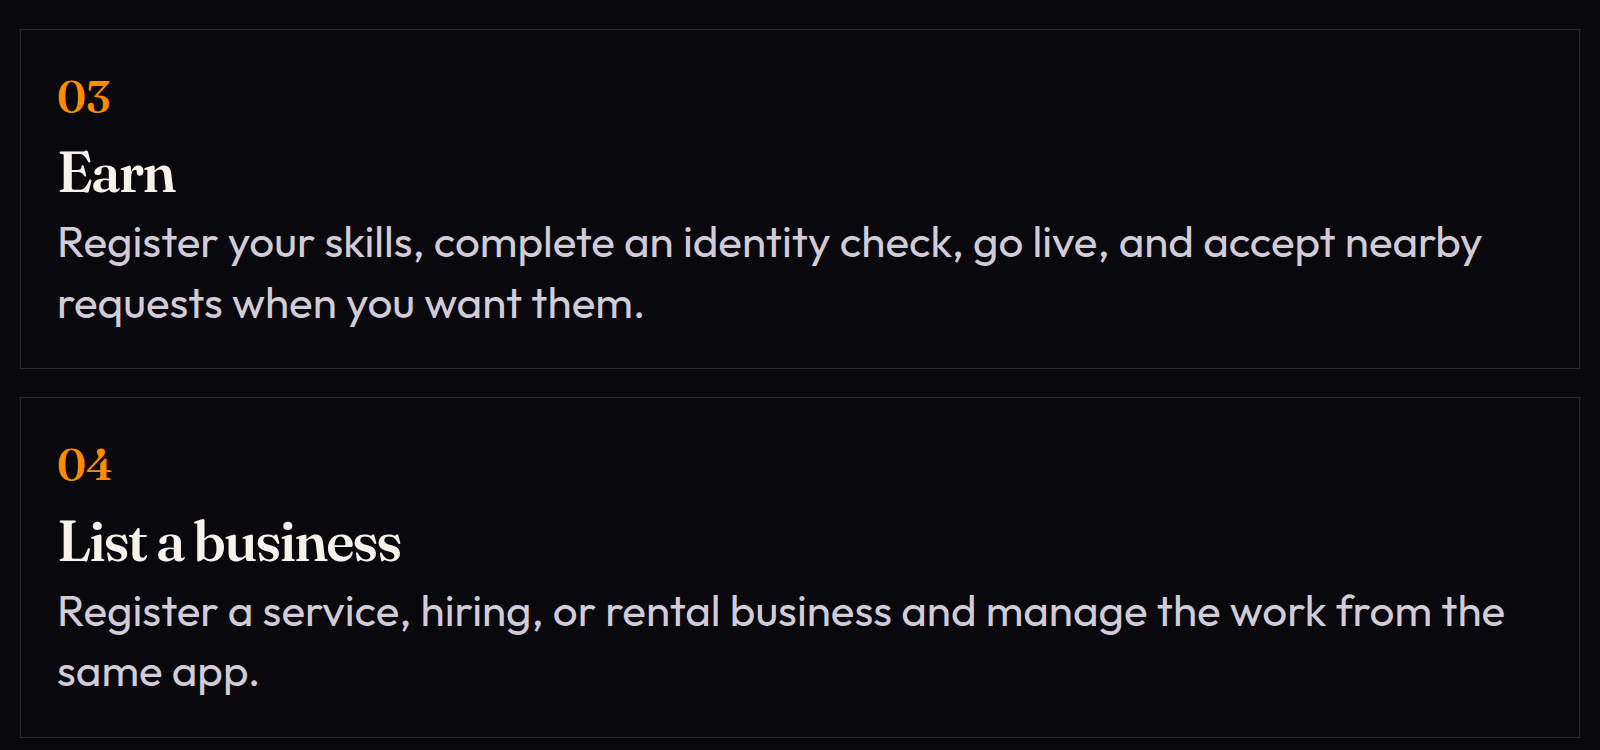
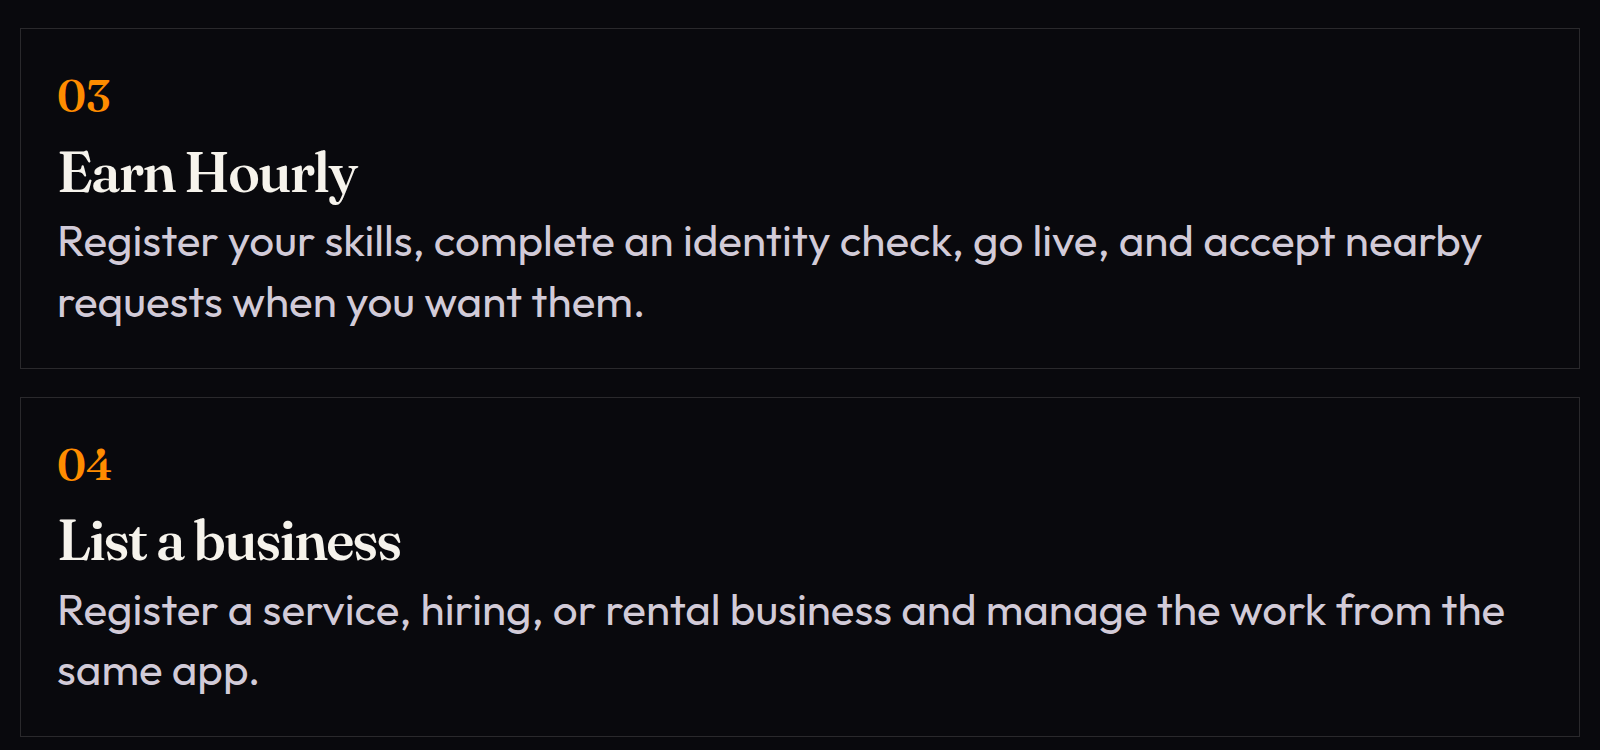
Rename the third path to Earn Hourly.

diff --git a/site/film/index.html b/site/film/index.html
@@ -105,7 +105,7 @@
       <p class="kicker child" id="pK">Four ways</p>
       <div class="path child" id="p1"><b>01</b><span>Book help</span></div>
       <div class="path child" id="p2"><b>02</b><span>Find a job</span></div>
-      <div class="path child" id="p3"><b>03</b><span>Earn</span></div>
+      <div class="path child" id="p3"><b>03</b><span>Earn Hourly</span></div>
       <div class="path child" id="p4"><b>04</b><span>List a business</span></div>
     </section>
 

diff --git a/site/index.html b/site/index.html
@@ -80,7 +80,7 @@
         <div class="grid-2">
           <article class="card">
             <span class="num">03</span>
-            <h3>Earn</h3>
+            <h3>Earn Hourly</h3>
             <p>Register your skills, complete an identity check, go live, and accept nearby requests when you want them.</p>
           </article>
           <article class="card">
